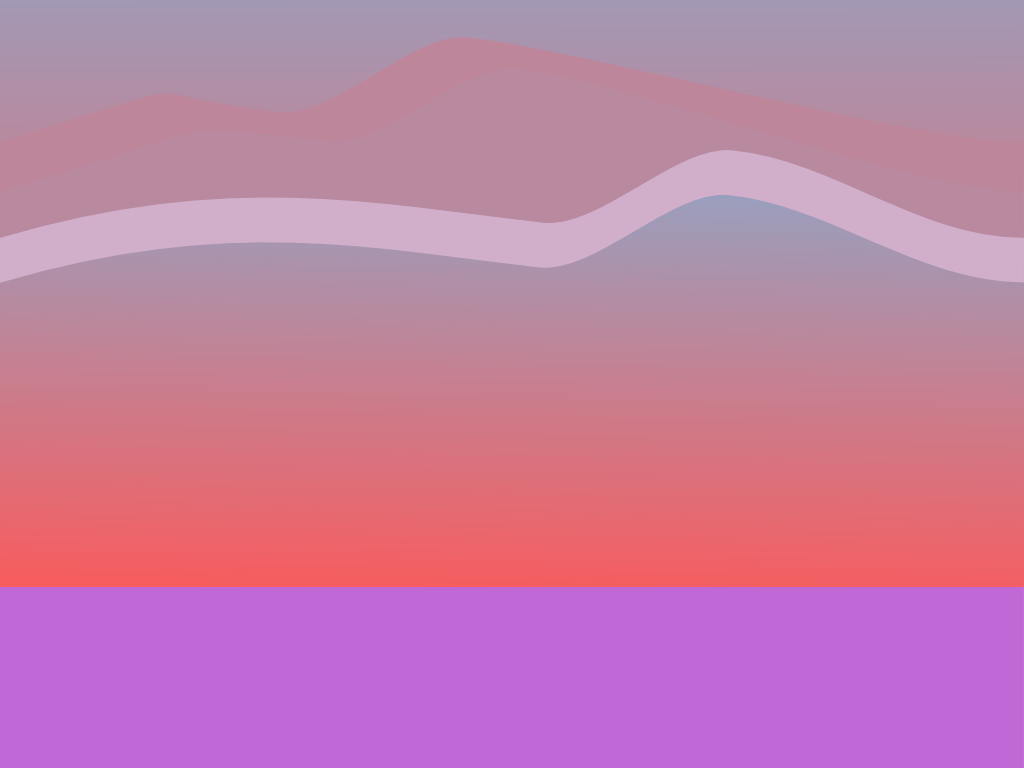
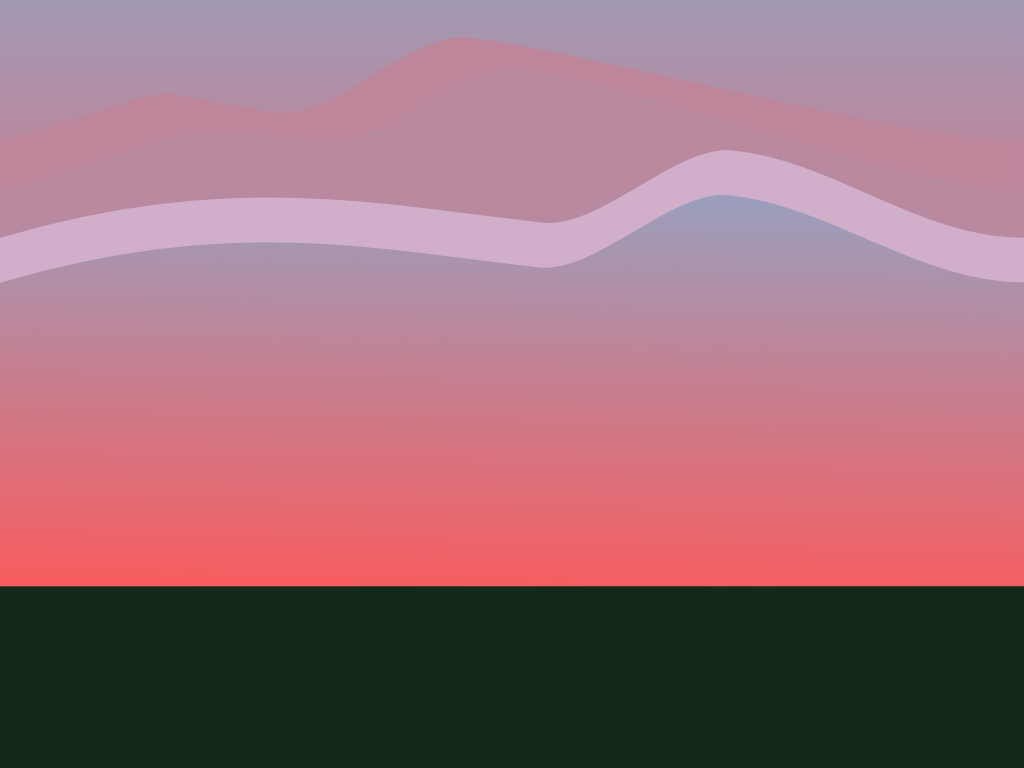
* Обновление фона под камеру с зумом

Changed region(s): [[0.0, 0.75, 1.0, 1.0]]

diff --git a/core/src/com/quadrolord/epicbattle/screen/battle/Background.java b/core/src/com/quadrolord/epicbattle/screen/battle/Background.java
@@ -2,8 +2,10 @@ package com.quadrolord.epicbattle.screen.battle;
 
 import com.badlogic.gdx.Gdx;
 import com.badlogic.gdx.graphics.Camera;
+import com.badlogic.gdx.graphics.OrthographicCamera;
 import com.badlogic.gdx.graphics.Texture;
 import com.badlogic.gdx.graphics.g2d.Batch;
+import com.badlogic.gdx.graphics.glutils.ShapeRenderer;
 import com.badlogic.gdx.scenes.scene2d.Group;
 import com.badlogic.gdx.scenes.scene2d.Stage;
 import com.badlogic.gdx.utils.ArrayMap;
@@ -16,6 +18,8 @@ import java.util.Iterator;
  * Created by Quadrowin on 10.01.2016.
  */
 public class Background extends Group {
+
+    private static final String TAG = "Background";
 
     private Texture mSky;
 
@@ -35,11 +39,17 @@ public class Background extends Group {
 
     private float mScale;
 
-    public Background(AbstractScreen screen, Stage stage, Camera camera) {
+    private Stage mStage;
+
+    private ShapeRenderer mShapeRenderer;
+
+    public Background(Stage stage, Camera camera) {
+        mShapeRenderer = new ShapeRenderer();
+        mStage = stage;
         mCamera = camera;
-        mWidth = screen.getStage().getViewport().getScreenWidth();
-        mHeight = screen.getStage().getViewport().getScreenHeight();
-        mScale = screen.getStage().getRoot().getScaleY();
+        mWidth = stage.getViewport().getScreenWidth();
+        mHeight = stage.getViewport().getScreenHeight();
+        mScale = stage.getRoot().getScaleY();
 
         Gdx.app.log("", "w " + mWidth + " h " + mHeight);
 
@@ -55,13 +65,17 @@ public class Background extends Group {
     @Override
     public void act(float delta) {
         mPosition = mCamera.position.x;
+        mWidth = mStage.getViewport().getScreenWidth();
+        mHeight = mStage.getViewport().getScreenHeight();
+        OrthographicCamera oc = (OrthographicCamera)mStage.getCamera();
+        mScale = oc.zoom;
     }
 
     @Override
     public void draw(Batch batch, float parentAlpha) {
         ArrayMap<Texture, Integer> layers = new ArrayMap<Texture, Integer>();
         float[][] offsets = {
-                {mHeight, -150},
+                {mHeight, 0},
                 {290, 0},
                 {130, 50},
                 {100, 50},
@@ -73,6 +87,8 @@ public class Background extends Group {
         layers.put(mMiddleGround, 12);
         layers.put(mNearGround, 10);
         layers.put(mGrass, 1);
+
+        Gdx.app.log(TAG, "pos " + mPosition + " scale " + mScale);
 
         int i = 0;
         Iterator<ObjectMap.Entry<Texture, Integer>> iter = layers.iterator();
@@ -88,13 +104,27 @@ public class Background extends Group {
 
             batch.draw(
                     next.key,
+                    delta - mWidth, top, mWidth, offsets[i][0]
+            );
+
+            batch.draw(
+                    next.key,
                     delta, top, mWidth, offsets[i][0]
             );
 
             batch.draw(
                     next.key,
-                    mWidth + delta, top, mWidth, offsets[i][0]
+                    delta + mWidth, top, mWidth, offsets[i][0]
             );
+
+            batch.draw(
+                    next.key,
+                    delta + mWidth * 2, top, mWidth, offsets[i][0]
+            );
+
+            if (i == 0) {
+                batch.draw(next.key, delta - mWidth, -200, mWidth * 4, 200, 0, 1, 1, 0.99f);
+            }
 
             i++;
         }

diff --git a/core/src/com/quadrolord/epicbattle/screen/battle/TowerHp.java b/core/src/com/quadrolord/epicbattle/screen/battle/TowerHp.java
@@ -2,8 +2,11 @@ package com.quadrolord.epicbattle.screen.battle;
 
 import com.badlogic.gdx.scenes.scene2d.Group;
 import com.badlogic.gdx.scenes.scene2d.ui.Label;
+import com.badlogic.gdx.utils.Align;
+import com.quadrolord.epicbattle.RM;
 import com.quadrolord.epicbattle.logic.tower.Tower;
 import com.quadrolord.ejge.view.AbstractScreen;
+import com.quadrolord.epicbattle.screen.SES;
 
 /**
  * Created by Quadrowin on 09.01.2016.
@@ -18,14 +21,18 @@ public class TowerHp extends Group {
         mTower = tower;
         mLabel = new Label(
                 Integer.toString((int)mTower.getHp()),
-                screen.getSkin().get("default-label-style", Label.LabelStyle.class)
+                RM.getLabelStyle()
         );
-        mLabel.setBounds(0, 0, getWidth(), getHeight());
-        this.addActor(mLabel);
+        mLabel.setFontScale(0.7f);
+        mLabel.setAlignment(Align.center, Align.bottom);
+        mLabel.setBounds(0, 0, tower.getWidth(), SES.BUTTON_HEIGHT);
+        addActor(mLabel);
 
-        float x = mTower.getX() + (mTower.getWidth() - mLabel.getPrefWidth()) / 2;
+        setBounds(
+                mTower.getX() - mTower.getWidth() / 2, mTower.getY() + mTower.getHeight(),
+                mTower.getWidth(), SES.BUTTON_HEIGHT
+        );
 
-        this.setBounds(x, 220, 50, 50);
         screen.getStage().addActor(this);
     }
 

diff --git a/core/src/com/quadrolord/epicbattle/screen/BattleScreen.java b/core/src/com/quadrolord/epicbattle/screen/BattleScreen.java
@@ -1,6 +1,7 @@
 package com.quadrolord.epicbattle.screen;
 
 import com.badlogic.gdx.Gdx;
+import com.badlogic.gdx.graphics.GL20;
 import com.badlogic.gdx.graphics.OrthographicCamera;
 import com.badlogic.gdx.scenes.scene2d.Actor;
 import com.badlogic.gdx.scenes.scene2d.Event;
@@ -92,7 +93,7 @@ public class BattleScreen extends com.quadrolord.ejge.view.AbstractScreen {
         mFrontStage.getViewport().update(Gdx.graphics.getWidth(), Gdx.graphics.getHeight(), true);
         Gdx.input.setInputProcessor(mFrontStage);
 
-        new Background(this, mBackStage, mStage.getCamera());
+        new Background(mBackStage, mStage.getCamera());
 
         new PauseButton(this, mFrontStage);
 
@@ -278,6 +279,11 @@ public class BattleScreen extends com.quadrolord.ejge.view.AbstractScreen {
 
     @Override
     public void draw(float delta) {
+        Gdx.gl.glClearColor(0.65f, 0.59f, 0.70f, 1);
+        Gdx.gl.glClear(GL20.GL_COLOR_BUFFER_BIT);
+
+
+
         mBackStage.act(delta);
         mBackStage.draw();
 

diff --git a/core/src/com/quadrolord/ejge/AbstractGameAdapter.java b/core/src/com/quadrolord/ejge/AbstractGameAdapter.java
@@ -112,7 +112,7 @@ abstract public class AbstractGameAdapter extends ApplicationAdapter {
     @Override
     public void render () {
         Gdx.gl.glClearColor(1, 0, 0, 1);
-        Gdx.gl.glClear(GL20.GL_COLOR_BUFFER_BIT);
+        Gdx.gl.glClear(GL20.GL_COLOR_BUFFER_BIT);// | GL20.GL_DEPTH_BUFFER_BIT);
 
         mScreen.render(Gdx.graphics.getDeltaTime());
         if (Gdx.graphics.getFramesPerSecond() < 55) {
